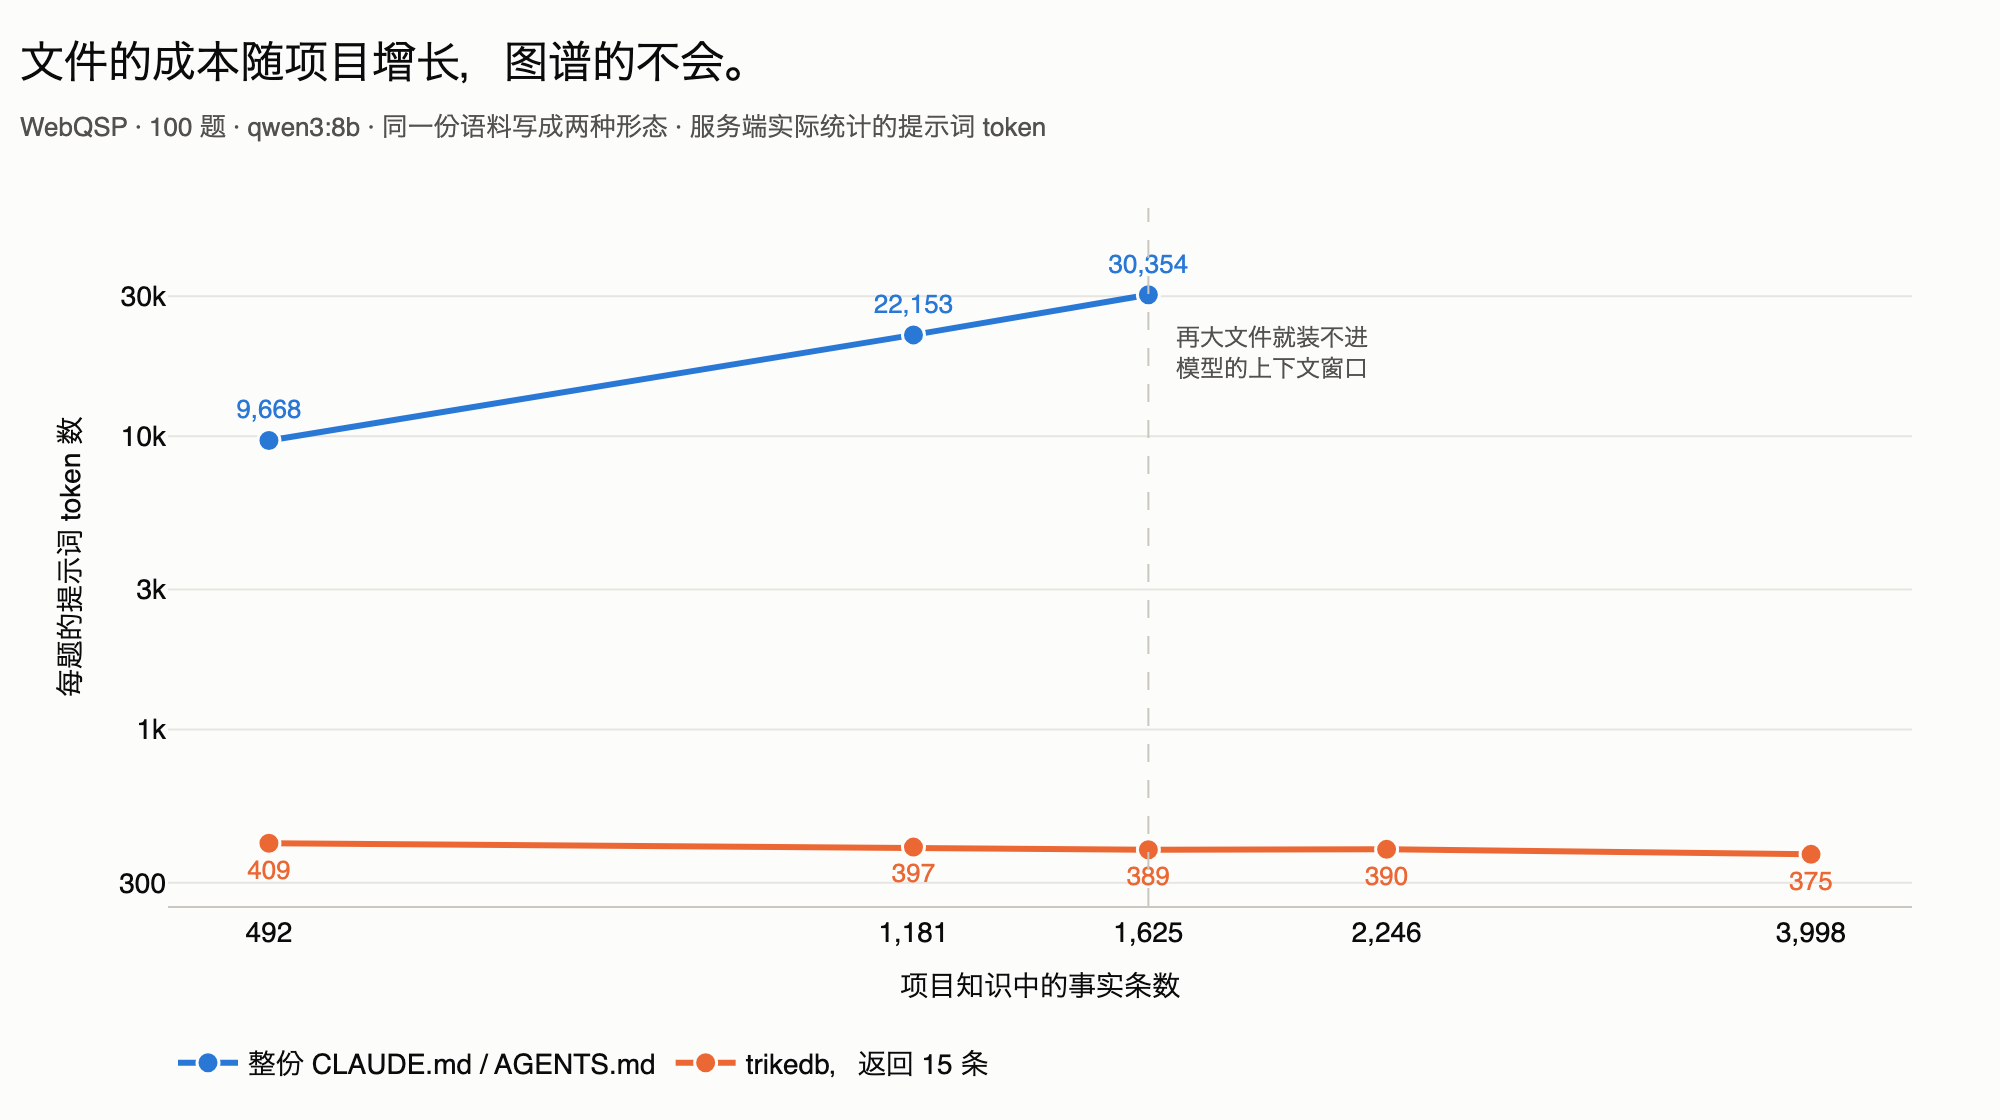
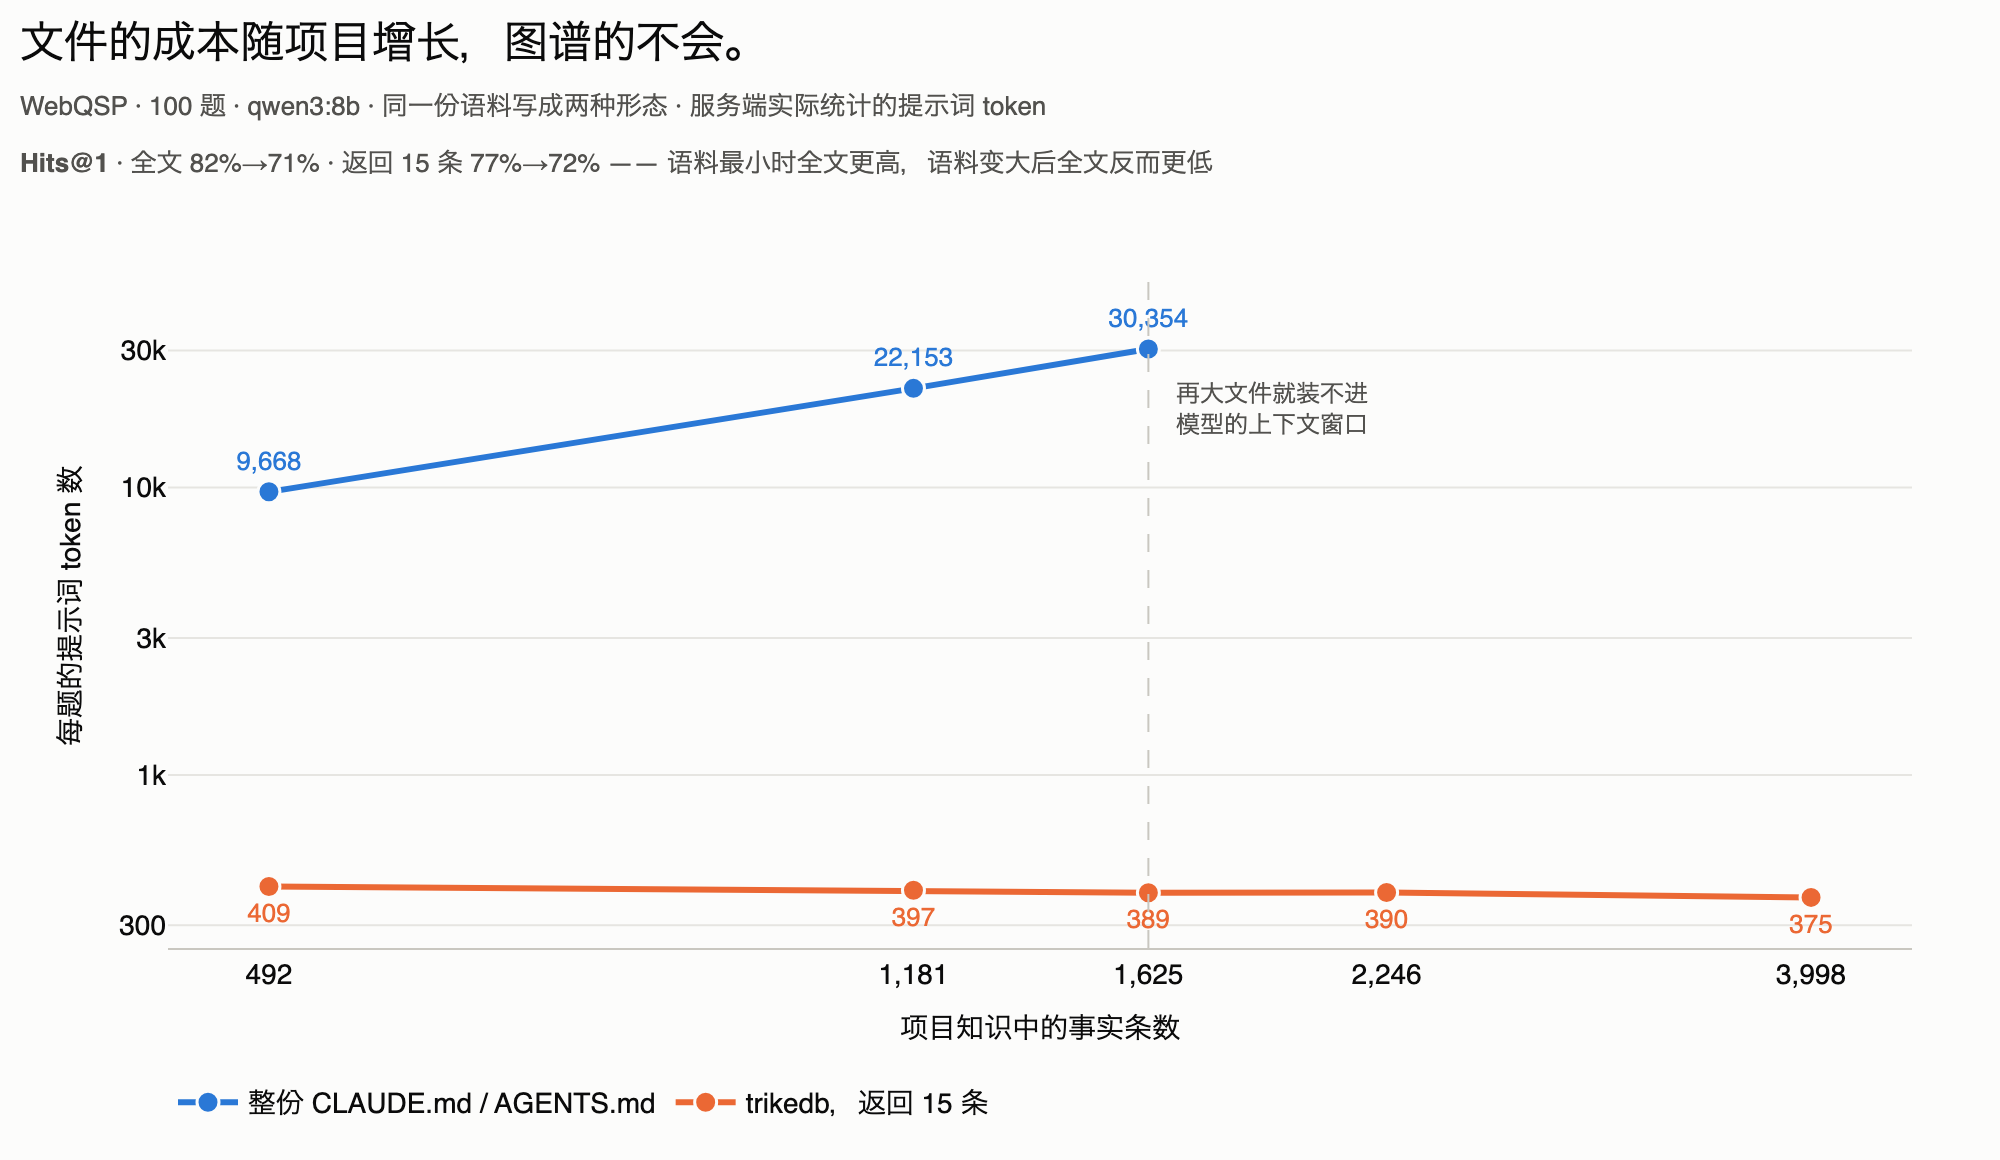
benchmarks: 「全件と15件を比べてるだけでは」に図が答えていなかった
コストだけの図にしたので、第三者が最初に思うのは「少なく送っているだけで精度は
落ちているだろう」になる。それに図の中で答えていなかった。

軸を増やすと読めなくなるので、Hits@1 をサブタイトルに1行入れた。全文 82%→71%、
15件 77%→72%。断定は置かず数字だけにしたのは、492件では全文が5ポイント上で
「精度は落ちない」が成り立たないから。入れ替わりが起きることだけ書いた。

diff --git a/benchmarks/memory_chart.py b/benchmarks/memory_chart.py
@@ -49,7 +49,10 @@ TEXT = {
     "en": {
         "title": "The file's cost grows with the project. The graph's does not.",
         "sub": ("WebQSP · 100 questions · qwen3:8b · one corpus, written out "
-                "both ways · prompt tokens the server actually counted"),
+                "both ways · prompt tokens the server actually counted<br>"
+                "<b>Hits@1</b> · whole file 82%→71% · 15 facts 77%→72% — the "
+                "file leads at the smallest corpus and falls below the graph "
+                "as the project grows"),
         "x": "facts in the project's knowledge",
         "y": "prompt tokens per question",
         "md": "the whole CLAUDE.md / AGENTS.md",
@@ -59,7 +62,9 @@ TEXT = {
     "jp": {
         "title": "ファイルのコストは知識量に比例する。グラフはしない。",
         "sub": ("WebQSP · 100問 · qwen3:8b · 同一コーパスを両方の形で書き出した · "
-                "サーバが実際に数えたプロンプトトークン"),
+                "サーバが実際に数えたプロンプトトークン<br>"
+                "<b>Hits@1</b> · 全文 82%→71% · 15件 77%→72% — "
+                "最小コーパスでは全文が上、知識が育つと全文が下回る"),
         "x": "プロジェクトの知識に入っている事実の数",
         "y": "1問あたりのプロンプトトークン",
         "md": "CLAUDE.md / AGENTS.md 全文",
@@ -69,7 +74,9 @@ TEXT = {
     "zh": {
         "title": "文件的成本随项目增长，图谱的不会。",
         "sub": ("WebQSP · 100 题 · qwen3:8b · 同一份语料写成两种形态 · "
-                "服务端实际统计的提示词 token"),
+                "服务端实际统计的提示词 token<br>"
+                "<b>Hits@1</b> · 全文 82%→71% · 返回 15 条 77%→72% —— "
+                "语料最小时全文更高，语料变大后全文反而更低"),
         "x": "项目知识中的事实条数",
         "y": "每题的提示词 token 数",
         "md": "整份 CLAUDE.md / AGENTS.md",
@@ -129,7 +136,7 @@ def main(lang: str = "en") -> None:
             text=(f"{words['title']}<br>"
                   f"<span style='font-size:13px;color:{INK_MUTED}'>"
                   f"{words['sub']}</span>"),
-            font=dict(size=22, color=INK), x=0.01, xanchor="left", y=0.93),
+            font=dict(size=22, color=INK), x=0.01, xanchor="left", y=0.95),
         paper_bgcolor=SURFACE, plot_bgcolor=SURFACE,
         font=dict(family="Helvetica, Arial, sans-serif", color=INK, size=14),
         legend=dict(orientation="h", y=-0.18, x=0, font=dict(size=14)),
@@ -143,7 +150,7 @@ def main(lang: str = "en") -> None:
                    tickvals=[300, 1_000, 3_000, 10_000, 30_000],
                    ticktext=["300", "1k", "3k", "10k", "30k"],
                    range=[math.log10(250), math.log10(60_000)]),
-        margin=dict(l=84, r=44, t=104, b=96), width=1000, height=560,
+        margin=dict(l=84, r=44, t=132, b=96), width=1000, height=580,
     )
     out = HERE / ("memory.png" if lang == "en" else f"memory_{lang}.png")
     figure.write_image(out, scale=2)
